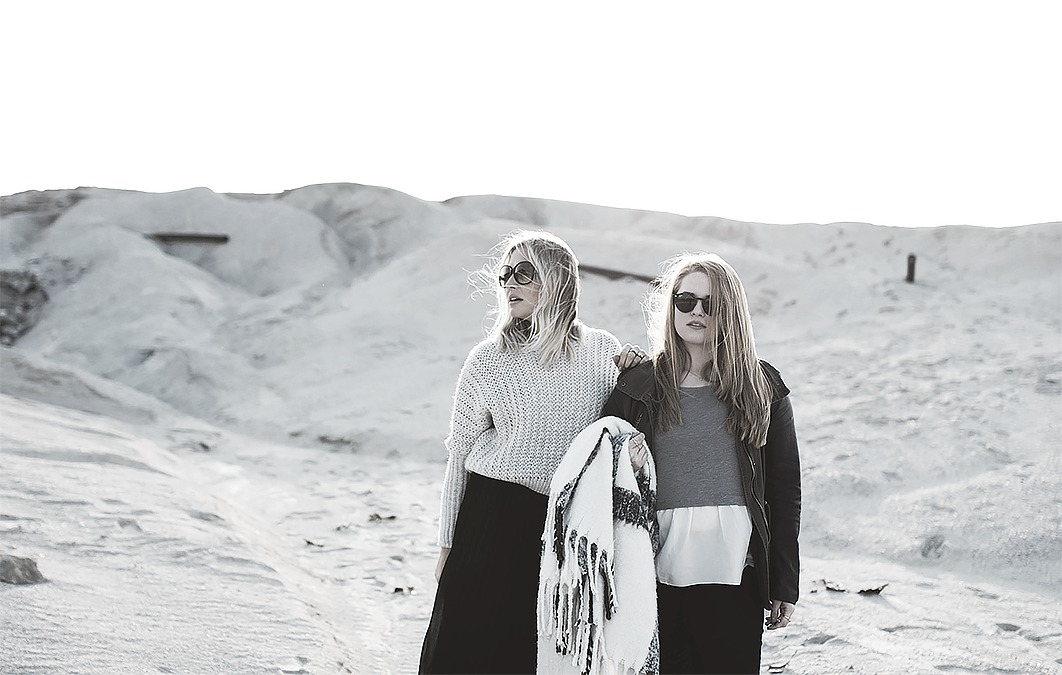
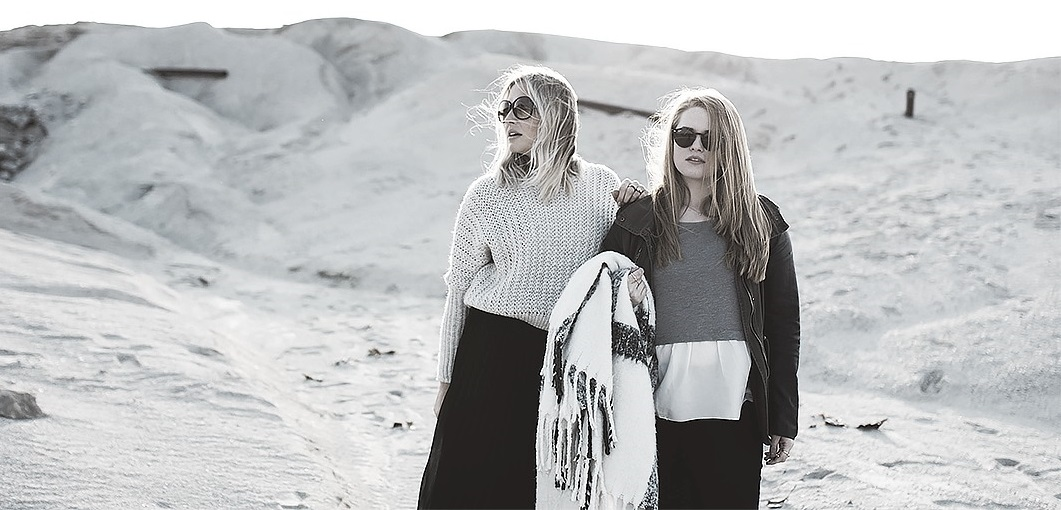
create responsive burger menu/ debug position gallery

diff --git a/css/index.css b/css/index.css
@@ -1,23 +1,25 @@
 * {
   font-family: "Ubuntu", sans-serif;
   list-style: none;
-  text-decoration: none;
-  max-width: 1920px;
-  margin: auto; }
+  text-decoration: none; }
+
+body {
+  margin: 0 auto; }
 
 .my-container {
   max-width: 1024px;
-  width: 100%; }
+  width: 100%;
+  margin: 0 auto; }
 
 nav {
   font-weight: bold;
-  margin-top: 4.375em;
+  margin-top: 2em;
   width: 100%; }
 
 #navbar-header {
   background-color: white;
   border-bottom: white;
-  font-size: 0.875em; }
+  font-size: 1em; }
 
 .nav-list {
   display: flex;
@@ -31,20 +33,21 @@ nav {
 .nav-item a {
   color: #626262; }
 
-.nav-item:first-child a {
-  font-size: 1.875em; }
+nav .navbar-header a {
+  font-size: 2em; }
 
 .nav-item a:hover {
   color: #000; }
 
 .home-photo {
-  display: flex;
-  justify-content: center; }
+  text-align: center; }
 
 article img {
   max-width: 100%;
-  display: block;
-  height: auto; }
+  display: inline-block;
+  height: auto;
+  margin: 0;
+  padding: 0; }
 
 .photodiary {
   margin-top: 5em; }
@@ -58,16 +61,16 @@ article img {
 
 .photodiary section p:nth-child(1) {
   color: #b4ad9e;
-  font-size: 0.875em; }
+  font-size: 1em; }
 
 .photodiary section p:nth-child(2) {
   color: #626262;
-  font-size: 1.875em;
+  font-size: 2em;
   margin-top: 1.875em; }
 
 .photodiary section p:nth-child(3) {
   color: #626262;
-  font-size: 0.875em;
+  font-size: 1em;
   margin-top: 2.813em; }
 
 .lifestyle {
@@ -86,13 +89,12 @@ article img {
 
 .left-post div div p:first-child {
   color: #b4ad9e;
-  font-size: 0.875em;
+  font-size: 1em;
   margin-top: 1.875em; }
 
 .left-post div div p:nth-child(2) {
   color: #626262;
-  font-size: 1.875em;
-  margin: 1.5em 0em 1.5em 0em; }
+  font-size: 2em; }
 
 .left-post div div p:nth-child(3) {
   padding-bottom: 8.125em; }
@@ -104,13 +106,12 @@ article img {
 
 .right-post div div p:first-child {
   color: #b4ad9e;
-  font-size: 0.875em;
+  font-size: 1em;
   margin-top: 1.875em; }
 
 .right-post div div p:nth-child(2) {
   color: #626262;
-  font-size: 1.875em;
-  padding: 1.5em 0em 1.5em 0em; }
+  font-size: 2em; }
 
 .right-post div div p:nth-child(3) {
   padding-bottom: 8.125em; }
@@ -123,7 +124,7 @@ article img {
   justify-content: center; }
 
 .sign-up section p {
-  font-size: 1.875em;
+  font-size: 2em;
   font-weight: bold;
   color: #333333; }
 

diff --git a/scss/index.scss b/scss/index.scss
@@ -1,9 +1,9 @@
 $font: 'Ubuntu', sans-serif;
-$size-font-menu: 0.875em;
-$size-logo: 1.875em;
+$size-font-menu: 1em;
+$size-logo: 2em;
 $header-color: #626262;
 $header-hover: #000;
-$header-top-margin: 4.375em;
+$header-top-margin: 2em;
 $header-width: 100%;
 $photodiary-color: #b4ad9e;
 $sign-up-bgc: #f0f0f0;
@@ -17,20 +17,23 @@ $btn-hover: #f0f0f0;
 	font-family: $font;
 	list-style: none;
 	text-decoration: none;
-	max-width: 1920px;
-	margin: auto;
+}
+
+body {
+	margin: 0 auto;
 }
 .my-container {
 	max-width: 1024px;
 	width: 100%;
+	margin: 0 auto;
 }
 //====NAVIGATION====//
 nav {
-	
 	font-weight: bold;
 	margin-top: $header-top-margin;
 	width: $header-width;
 }
+
 #navbar-header {
 	background-color: white;
 	border-bottom: white;
@@ -51,7 +54,7 @@ nav {
 	color: $header-color;
 }
 
-.nav-item:first-child a {
+nav .navbar-header a {
   font-size: $size-logo;
 
 }
@@ -62,14 +65,15 @@ nav {
 
 //====Home-image====//
 .home-photo {
-	display:flex;
-	justify-content: center;
+	text-align: center;
 }
 
 article img {
 	max-width: 100%; 
-	display:block; 
+	display: inline-block; 
 	height: auto;
+	margin: 0;
+	padding: 0;
 }
 
 //==NEXT-page==//
@@ -127,7 +131,6 @@ article img {
  .left-post div div p:nth-child(2) {
 	color: $header-color;
 	font-size: $size-logo;
-	margin: 1.5em 0em 1.5em 0em;
 }
 
 .left-post div div p:nth-child(3) {
@@ -149,7 +152,6 @@ article img {
  .right-post div div p:nth-child(2) {
 	color: $header-color;
 	font-size: $size-logo;
-	padding: 1.5em 0em 1.5em 0em;
 }
 
 .right-post div div p:nth-child(3) {

diff --git a/index.html b/index.html
@@ -19,7 +19,7 @@
             <span class="icon-bar"></span>
             <span class="icon-bar"></span>
           </button>
-          <a class="navbar-brand" href="#">MINIMO</a>
+          <a class="navbar-brand logo" href="#">MINIMO</a>
         </div>
         <div id="navbar" class="navbar-collapse collapse">
           <ul class="nav navbar-nav navbar-right">
@@ -95,7 +95,7 @@
 			</section>	
 		</article>
 
-	<div class="-my-container">
+	<div class="my-container">
 		<article class="under-newsletter lifestyle">
 			<section class="left-post">
 				<div>
